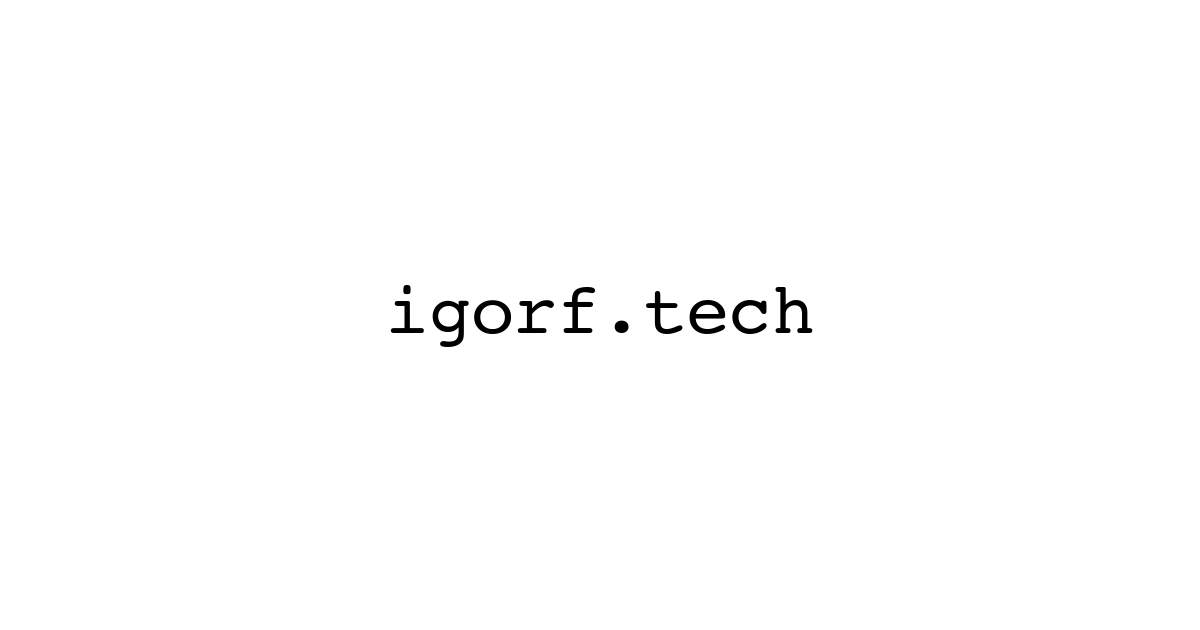
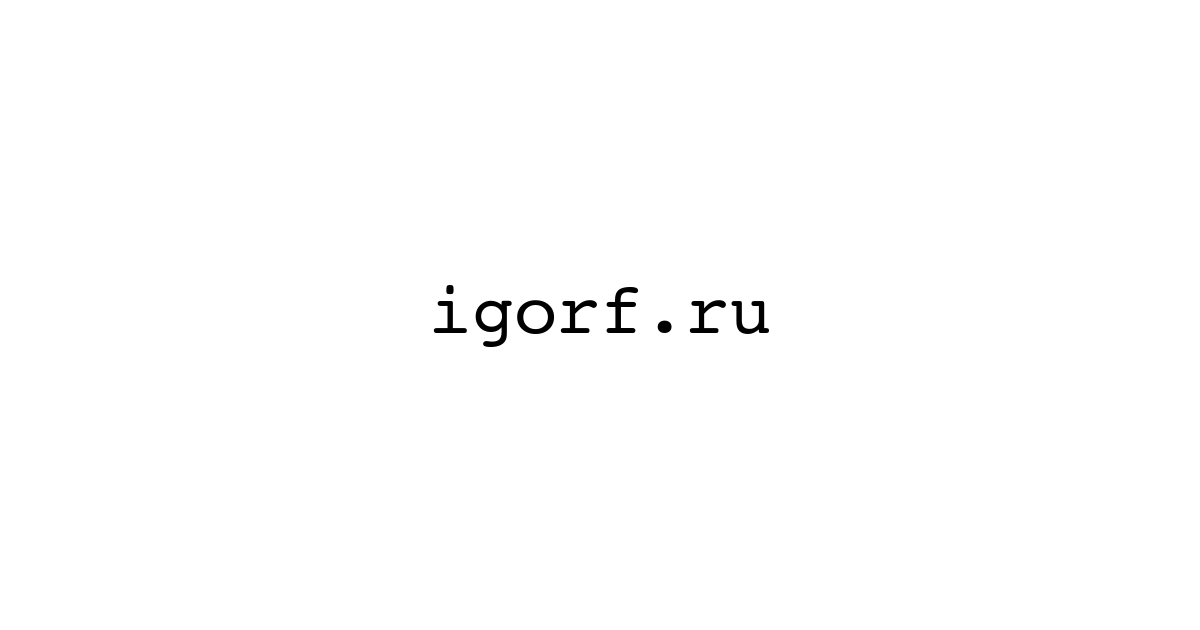
feat: add new post about prd

Changed region(s): [[0.3083, 0.4524, 0.6783, 0.573]]

diff --git a/layouts/partials/header.html b/layouts/partials/header.html
@@ -1,7 +1,7 @@
 <nav class="site-nav">
   {{- if not .IsHome }}
-    <a href="/">← igorf.tech</a>
+    <a href="/">← igorf.ru</a>
   {{- else }}
-    <strong>igorf.tech</strong>
+    <strong>igorf.ru</strong>
   {{- end }}
 </nav>

diff --git a/layouts/partials/seo/jsonld.html b/layouts/partials/seo/jsonld.html
@@ -24,7 +24,7 @@
   },
   "publisher": {
     "@type": "Organization",
-    "name": "igorf.tech"
+    "name": "igorf.ru"
   },
   "image": "{{ .Site.Params.ogImage | absURL }}",
   "mainEntityOfPage": "{{ .Permalink }}"

diff --git a/layouts/partials/breadcrumbs.html b/layouts/partials/breadcrumbs.html
@@ -1,5 +1,5 @@
 <nav class="breadcrumbs" aria-label="breadcrumb">
-  <a href="/">igorf.tech</a>
+  <a href="/">igorf.ru</a>
   {{- if eq .Section "blog" }}
     → <a href="/blog/">Блог</a>
     {{- if .IsPage }}

diff --git a/content/blog/prd-first-step-vibe-coding.md b/content/blog/prd-first-step-vibe-coding.md
@@ -1,0 +1,156 @@
+---
+title: "Почему PRD — первый шаг вайб-кодинга, а не лишняя бюрократия"
+date: 2026-02-12
+lastmod: 2026-02-12
+description: "Без PRD Claude Code выбирает среднестатистическое решение. 10 минут на документ экономят часы переделок."
+tags: ["вайб-кодинг", "prd", "claude-code", "продуктивность"]
+slug: "prd-first-step-vibe-coding"
+draft: true
+---
+
+Ты открываешь Claude Code. Пишешь "сделай авторизацию". Через пять минут — рабочий код. Который ты потом переделываешь два дня.
+
+Знакомо? У меня так было в двух проектах подряд. Проект igorf-tech — 28 промптов, пытаясь объяснить Claude Code, что мне нужно. Youtube-me — 37. Каждый третий промпт начинался с "нет, я имел в виду другое". Инструмент тут ни при чём. Я просто не объяснил, чего хочу.
+
+## Почему AI выбирает "среднее"
+
+Когда ты пишешь "сделай авторизацию", Claude Code не знает: тебе нужен JWT или сессии? OAuth через Google или email/password? Роли нужны или нет? Он берёт самый вероятный вариант из обучающих данных. Среднестатистическое решение для среднестатистического проекта.
+
+Андрей Карпатый назвал это context engineering — искусство заполнить контекстное окно правильной информацией. Мало контекста — AI выбирает наугад. Переизбыток деталей топит в шуме, и модель теряет фокус. По данным CodeRabbit, AI-код без чётких спецификаций содержит в 1.7 раза больше проблем: логические ошибки, дыры в безопасности, пропущенная обработка ошибок.
+
+## PRD как ограничитель
+
+Для вайб-кодинга этот документ — не монстр на 30 страниц из корпоративного мира. Одна страница. Десять минут работы. Иногда пять.
+
+Что туда входит: какую проблему решаем, для кого, что точно НЕ делаем, и как поймём что готово. Всё. Четыре пункта.
+
+Luke Bechtel, автор концепции "vibe specs", замерил: 10-20 минут планирования экономят часы переделок. Фичи стали занимать заметно меньше времени — он говорит о существенном сокращении цикла разработки. Не потому что кодил быстрее. Потому что кодил правильное.
+
+"Неважно, как быстро ты создаёшь что-то, если оно бесполезно" — его слова.
+
+## Мой workflow сейчас
+
+Я открываю Claude Code и пишу `/create-prd`. Под капотом — вот такой промпт:
+
+```
+You are a senior Product Manager creating a Product Requirements Document.
+
+## Process
+
+### Phase 1: DISCOVER
+Ask me **5 targeted questions** to understand the feature. Questions should cover:
+- What problem are we solving and for whom?
+- What does success look like? (measurable outcomes)
+- Are there existing solutions or workarounds?
+- What are the constraints? (time, tech, budget)
+- What's the scope boundary? (what is NOT included)
+
+Wait for my answers before proceeding.
+
+### Phase 2: CLARIFY
+Based on my answers:
+- Identify gaps, ambiguities, or contradictions
+- Ask **2-3 follow-up questions** to resolve them
+- If anything is still unclear, ask again — do NOT assume
+
+Wait for my answers before proceeding.
+
+### Phase 3: GENERATE
+Create the PRD with these sections:
+
+# PRD: [Feature Name]
+
+**Author:** [auto-detect from git or ask]
+**Date:** [today]
+**Status:** Draft
+**Version:** 1.0
+
+## 1. Problem Statement
+What problem exists and why it matters. Include evidence or user pain points.
+
+## 2. Goals & Success Metrics
+- Goal 1 → Metric (measurable, with target)
+- Goal 2 → Metric
+- Goal 3 → Metric
+
+## 3. Target Users
+Who are the primary and secondary users. Include relevant personas or segments.
+
+## 4. User Stories
+- As a [user], I want [action] so that [outcome]
+- One story per behavior, each must be testable
+
+## 5. Functional Requirements
+
+### P0 — Must Have
+- [ ] REQ-001: ...
+- [ ] REQ-002: ...
+
+### P1 — Should Have
+- [ ] REQ-010: ...
+
+### P2 — Nice to Have
+- [ ] REQ-020: ...
+
+## 6. Non-Functional Requirements
+- Performance: ...
+- Security: ...
+- Scalability: ...
+- Accessibility: ...
+
+## 7. Acceptance Criteria
+Testable conditions that must be true for the feature to be considered complete.
+- [ ] AC-001: Given [context], when [action], then [result]
+- [ ] AC-002: ...
+
+## 8. Design Considerations
+UI/UX notes, wireframe references, or interaction patterns.
+
+## 9. Technical Considerations
+Architecture decisions, API changes, database schema, dependencies, migration needs.
+
+## 10. Out of Scope
+Explicitly list what this PRD does NOT cover to prevent scope creep.
+
+## 11. Open Questions
+Unresolved items that need answers before or during implementation.
+
+## 12. Dependencies & Risks
+| Risk | Impact | Mitigation |
+|------|--------|------------|
+| ...  | ...    | ...        |
+
+### Phase 4: VALIDATE
+Score the PRD on a 100-point scale:
+- **Functional Clarity** (30 pts): Are requirements specific and testable?
+- **Technical Specificity** (25 pts): Can an engineer implement from this alone?
+- **Business Context** (25 pts): Is the "why" clear with measurable goals?
+- **Completeness** (20 pts): Are all sections filled, no TBDs?
+
+If score < 85: identify weak sections and ask me to provide more details.
+If score >= 85: present the final PRD for my approval.
+
+### Phase 5: SAVE
+After my approval, save the PRD to: ./docs/prd-$ARGUMENTS.md
+
+If the ./docs/ directory does not exist, create it.
+
+---
+
+## Rules
+- Use clear, specific language. Avoid "fast", "secure", "scalable" without concrete numbers.
+- Every requirement must be testable — if you can't write a test for it, rewrite it.
+- Use "shall" for mandatory requirements, "should" for recommended, "may" for optional.
+- Do NOT write any code. This is a requirements document only.
+- Communicate in the same language the user uses.
+```
+
+AI сам задаёт правильные вопросы: что за фича, кто пользователь, какие ограничения, что вне скоупа. За 10 минут у меня готовый документ. Дальше кодинг идёт точно в цель.
+
+Разница? В youtube-me до этого я тратил 37 промптов на фичу, половина — переделки и уточнения. Теперь — 5-7 промптов, и результат с первого подхода. Claude Code перестал гадать, потому что я перестал заставлять его гадать.
+
+## Итог
+
+Десять минут структурирования мыслей против часов переделок. Математика простая. Такой подход не замедляет вайб-кодинг — он даёт AI понять, чего ты хочешь.
+
+Алекс Лукашевич из Forte Group говорил примерно так: "AI не решает архитектуру — он обнажает её отсутствие". Документ с требованиями — это та самая архитектура. Минимальная, но достаточная.

diff --git a/README.md b/README.md
@@ -1,0 +1,88 @@
+# igorf.ru
+
+Экспертный блог о вайб-кодинге, AI-инструментах и пет-проектах. На русском языке.
+
+## Стек
+
+- **Hugo** — генератор статических сайтов
+- **Кастомная тема** с нуля (без сторонних тем)
+- **CSS** — один файл `static/style.css`, без фреймворков
+- **JS** — нет
+- **Деплой** — GitHub → Coolify (self-hosted, российский VPS) → nginx
+
+## Быстрый старт
+
+### Требования
+
+- [Hugo](https://gohugo.io/installation/) (extended edition)
+
+### Установка Hugo
+
+```bash
+# macOS
+brew install hugo
+
+# Linux (snap)
+snap install hugo
+
+# Или скачать бинарник: https://github.com/gohugoio/hugo/releases
+```
+
+### Локальная разработка
+
+```bash
+git clone git@github.com:<user>/igorf.ru.git
+cd igorf.ru
+
+# Запуск dev-сервера с черновиками
+hugo server -D
+```
+
+Сайт будет доступен по адресу http://localhost:1313
+
+### Создание нового поста
+
+```bash
+hugo new blog/my-post-slug.md
+```
+
+Пост создаётся из архетипа `archetypes/blog.md` с заполненным front matter.
+
+### Сборка для продакшена
+
+```bash
+hugo --minify
+```
+
+Результат — папка `public/`.
+
+## Деплой через Docker
+
+```bash
+docker build -t igorf-ru .
+docker run -p 8080:80 igorf-ru
+```
+
+Dockerfile использует multi-stage сборку: Hugo собирает сайт, nginx раздаёт статику.
+
+## Структура проекта
+
+```
+├── archetypes/blog.md     — шаблон нового поста
+├── content/
+│   ├── _index.md          — главная страница
+│   ├── about.md           — обо мне
+│   └── blog/              — посты блога
+├── layouts/
+│   ├── _default/baseof.html — базовый wrapper
+│   ├── index.html         — шаблон главной
+│   ├── blog/              — list.html, single.html
+│   └── partials/seo/      — meta, opengraph, jsonld
+├── static/                — картинки, favicon, robots.txt
+├── hugo.toml              — конфигурация сайта
+└── Dockerfile             — сборка и деплой
+```
+
+## Дизайн
+
+Бруталистский минимализм: системный `monospace`, без внешних шрифтов, иконок и анимаций. Максимальная ширина контента — 640px.
